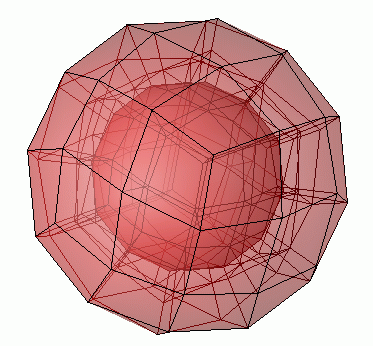
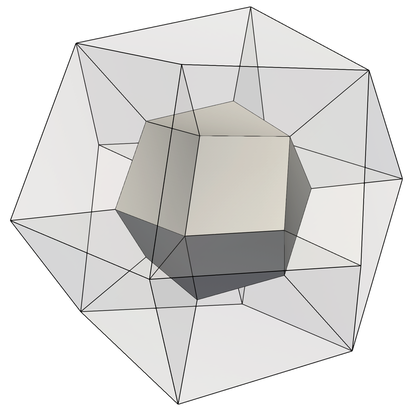
Update GridGenerator::hyper_shell's documentation.

diff --git a/source/grid/grid_generator.cc b/source/grid/grid_generator.cc
@@ -3543,114 +3543,15 @@ namespace GridGenerator
       }
     else if (n == 96)
       {
-        // create a triangulation based on the
-        // 12-cell one where we refine the mesh
-        // once and then re-arrange all
-        // interior nodes so that the mesh is
-        // the least distorted
-        SphericalManifold<3> boundary (p);
+        // create a triangulation based on the 12-cell version. This function
+        // was needed before SphericalManifold was written: it manually
+        // adjusted the interior vertices to lie along concentric
+        // spheres. Nowadays we can just refine globally:
         Triangulation<3> tmp;
         hyper_shell (tmp, p, inner_radius, outer_radius, 12);
-        tmp.set_manifold(0, boundary);
-        tmp.set_manifold(1, boundary);
         tmp.refine_global (1);
 
-        // let's determine the distance at
-        // which the interior nodes should be
-        // from the center. let's say we
-        // measure distances in multiples of
-        // outer_radius and call
-        // r=inner_radius.
-        //
-        // then note
-        // that we now have 48 faces on the
-        // inner and 48 on the outer sphere,
-        // each with an area of approximately
-        // 4*pi/48*r^2 and 4*pi/48, for
-        // a face edge length of approximately
-        // sqrt(pi/12)*r and sqrt(pi/12)
-        //
-        // let's say we put the interior nodes
-        // at a distance rho, then a measure of
-        // deformation for the inner cells
-        // would be
-        //   di=max(sqrt(pi/12)*r/(rho-r),
-        //          (rho-r)/sqrt(pi/12)/r)
-        // and for the outer cells
-        //   do=max(sqrt(pi/12)/(1-rho),
-        //          (1-rho)/sqrt(pi/12))
-        //
-        // we now seek a rho so that the
-        // deformation of cells on the inside
-        // and outside is equal. there are in
-        // principle four possibilities for one
-        // of the branches of do== one of the
-        // branches of di, though not all of
-        // them satisfy do==di, of
-        // course. however, we are not
-        // interested in cases where the inner
-        // cell is long and skinny and the
-        // outer one tall -- yes, they have the
-        // same aspect ratio, but in different
-        // space directions.
-        //
-        // so it only boils down to the
-        // following two possibilities: the
-        // first branch of each max(.,.)
-        // functions are equal, or the second
-        // one are. on the other hand, since
-        // they two branches are reciprocals of
-        // each other, if one pair of branches
-        // is equal, so is the other
-        //
-        // this yields the following equation
-        // for rho:
-        //   sqrt(pi/12)*r/(rho-r)
-        //   == sqrt(pi/12)/(1-rho)
-        // with solution rho=2r/(1+r)
-        const double r = inner_radius / outer_radius;
-        const double rho = 2*r/(1+r);
-
-        // then this is the distance of the
-        // interior nodes from the center:
-        const double middle_radius = rho * outer_radius;
-
-        // mark vertices we've already moved or
-        // that we want to ignore: we don't
-        // want to move vertices at the inner
-        // or outer boundaries
-        std::vector<bool> vertex_already_treated (tmp.n_vertices(), false);
-        for (Triangulation<3>::active_cell_iterator cell = tmp.begin_active();
-             cell != tmp.end(); ++cell)
-          for (unsigned int f=0; f<GeometryInfo<3>::faces_per_cell; ++f)
-            if (cell->at_boundary(f))
-              for (unsigned int v=0; v<GeometryInfo<3>::vertices_per_face; ++v)
-                vertex_already_treated[cell->face(f)->vertex_index(v)] = true;
-
-        // now move the remaining vertices
-        for (Triangulation<3>::active_cell_iterator cell = tmp.begin_active();
-             cell != tmp.end(); ++cell)
-          for (unsigned int v=0; v<GeometryInfo<3>::vertices_per_cell; ++v)
-            if (vertex_already_treated[cell->vertex_index(v)] == false)
-              {
-                // this is a new interior
-                // vertex. mesh refinement may
-                // have placed it at a number
-                // of places in radial
-                // direction and oftentimes not
-                // in a particularly good
-                // one. move it to halfway
-                // between inner and outer
-                // sphere
-                const Tensor<1,3> old_distance = cell->vertex(v) - p;
-                const double old_radius = cell->vertex(v).distance(p);
-                cell->vertex(v) = p + old_distance * (middle_radius / old_radius);
-
-                vertex_already_treated[cell->vertex_index(v)] = true;
-              }
-
-        // now copy the resulting level 1 cells
-        // into the new triangulation,
+        // now copy the resulting level 1 cells into the new triangulation,
         cells.resize(tmp.n_active_cells(), CellData<3>());
         for (Triangulation<3>::active_cell_iterator cell = tmp.begin_active();
              cell != tmp.end(); ++cell)

diff --git a/include/deal.II/grid/grid_generator.h b/include/deal.II/grid/grid_generator.h
@@ -711,8 +711,8 @@ namespace GridGenerator
    * both the faces and the edges of these boundaries. If the flag is @p
    * false, both have indicator zero.
    *
-   * All manifold ids are set to zero, and a SphericalManifold is attached to the
-   * the triangulation.
+   * All manifold ids are set to zero, and a SphericalManifold is attached to
+   * every cell and face of the triangulation.
    *
    * In 2d, the number <tt>n_cells</tt> of elements for this initial
    * triangulation can be chosen arbitrarily. If the number of initial cells
@@ -722,38 +722,14 @@ namespace GridGenerator
    * In 3d, only certain numbers are allowed, 6 (or the default 0) for a
    * surface based on a hexahedron (i.e. 6 panels on the inner sphere extruded
    * in radial direction to form 6 cells), 12 for the rhombic dodecahedron,
-   * and 96 (see below).
+   * and 96. This choice dates from an older version of deal.II before the
+   * Manifold classes were implemented: today all three choices are roughly
+   * equivalent (after performing global refinement, of course).
    *
-   * While the SphericalManifold, that is demonstrated in the documentation of
-   * the
-   * @ref manifold "documentation module on manifolds",
-   * creates reasonable meshes for any number of @p n_cells if attached to all
-   * cells and boundaries, the situation is less than ideal when only
-   * attaching a HyperShellBoundary. Then, only vertices on the boundaries are
-   * placed at the correct distance from the center. As an example, the 3d
-   * meshes give rise to the following meshes upon one refinement:
+   * The grids with 12 and 96 cells are plotted below:
    *
-   * @image html hypershell3d-6.png
    * @image html hypershell3d-12.png
-   *
-   * Neither of these meshes is particularly good since one ends up with
-   * poorly shaped cells at the inner edge upon refinement. For example, this
-   * is the middle plane of the mesh for the <code>n_cells=6</code>:
-   *
-   * @image html hyper_shell_6_cross_plane.png
-   *
-   * The mesh generated with <code>n_cells=12</code> is better but still not
-   * good. As a consequence, you may also specify <code>n_cells=96</code> as a
-   * third option. The mesh generated in this way is based on a once refined
-   * version of the one with <code>n_cells=12</code>, where all internal nodes
-   * are re-placed along a shell somewhere between the inner and outer
-   * boundary of the domain. The following two images compare half of the
-   * hyper shell for <code>n_cells=12</code> and <code>n_cells=96</code> (note
-   * that the doubled radial lines on the cross section are artifacts of the
-   * visualization):
-   *
-   * @image html hyper_shell_12_cut.png
-   * @image html hyper_shell_96_cut.png
+   * @image html hypershell3d-96.png
    *
    * @note This function is declared to exist for triangulations of all space
    * dimensions, but throws an error if called in 1d.
